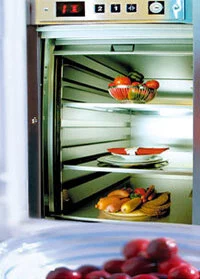
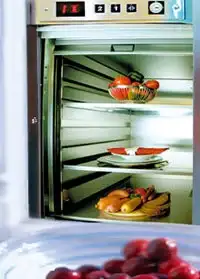
optimize

diff --git a/style.css b/style.css
@@ -21,7 +21,7 @@ td{padding:5px;border:2px solid white;}
 .hero-section-product-passenger-lift{background:url(img/bg-img/passenger-lift.jpg) 93.5% no-repeat;background-size:cover;background-position:center;height:50vh;text-align:center;display:-webkit-flex;display:-ms-flexbox;display:flex;-webkit-align-items:center;-ms-flex-align:center;align-items:center;-webkit-justify-content:center;-ms-flex-pack:center;justify-content:center;}
 .hero-section-hospital-lift{background:url(img/bg-img/product.webp) 93.5% no-repeat;background-size:cover;background-position:center;height:50vh;text-align:center;display:-webkit-flex;display:-ms-flexbox;display:flex;-webkit-align-items:center;-ms-flex-align:center;align-items:center;-webkit-justify-content:center;-ms-flex-pack:center;justify-content:center;}
 .hero-escalator{background:url(img/bg-img/escalator-cover.webp) 93.5% no-repeat;background-size:cover;background-position:center;height:50vh;text-align:center;display:-webkit-flex;display:-ms-flexbox;display:flex;-webkit-align-items:center;-ms-flex-align:center;align-items:center;-webkit-justify-content:center;-ms-flex-pack:center;justify-content:center;}
-.hero-section-dumbwaiter{background:url(img/bg-img/dumbwaiter-elevator.jpg) 93.5% no-repeat;background-size:cover;background-position:center;height:50vh;text-align:center;display:-webkit-flex;display:-ms-flexbox;display:flex;-webkit-align-items:center;-ms-flex-align:center;align-items:center;-webkit-justify-content:center;-ms-flex-pack:center;justify-content:center;}
+.hero-section-dumbwaiter{background:url(img/bg-img/dumbwaiter-elevator.webp) 93.5% no-repeat;background-size:cover;background-position:center;height:50vh;text-align:center;display:-webkit-flex;display:-ms-flexbox;display:flex;-webkit-align-items:center;-ms-flex-align:center;align-items:center;-webkit-justify-content:center;-ms-flex-pack:center;justify-content:center;}
 .hero-section-cabin-parts{background:url(img/bg-img/cabin-parts.png) 93.5% no-repeat;background-size:cover;background-position:center;height:50vh;text-align:center;display:-webkit-flex;display:-ms-flexbox;display:flex;-webkit-align-items:center;-ms-flex-align:center;align-items:center;-webkit-justify-content:center;-ms-flex-pack:center;justify-content:center;}
 .half-black{background:rgba(0, 0, 0, 0.6);background-size:cover;height:100%;width:100%;text-align:center;display:-webkit-flex;display:-ms-flexbox;display:flex;-webkit-align-items:center;-ms-flex-align:center;align-items:center;-webkit-justify-content:center;-ms-flex-pack:center;justify-content:center;}
 *{margin:0;padding:0;}
